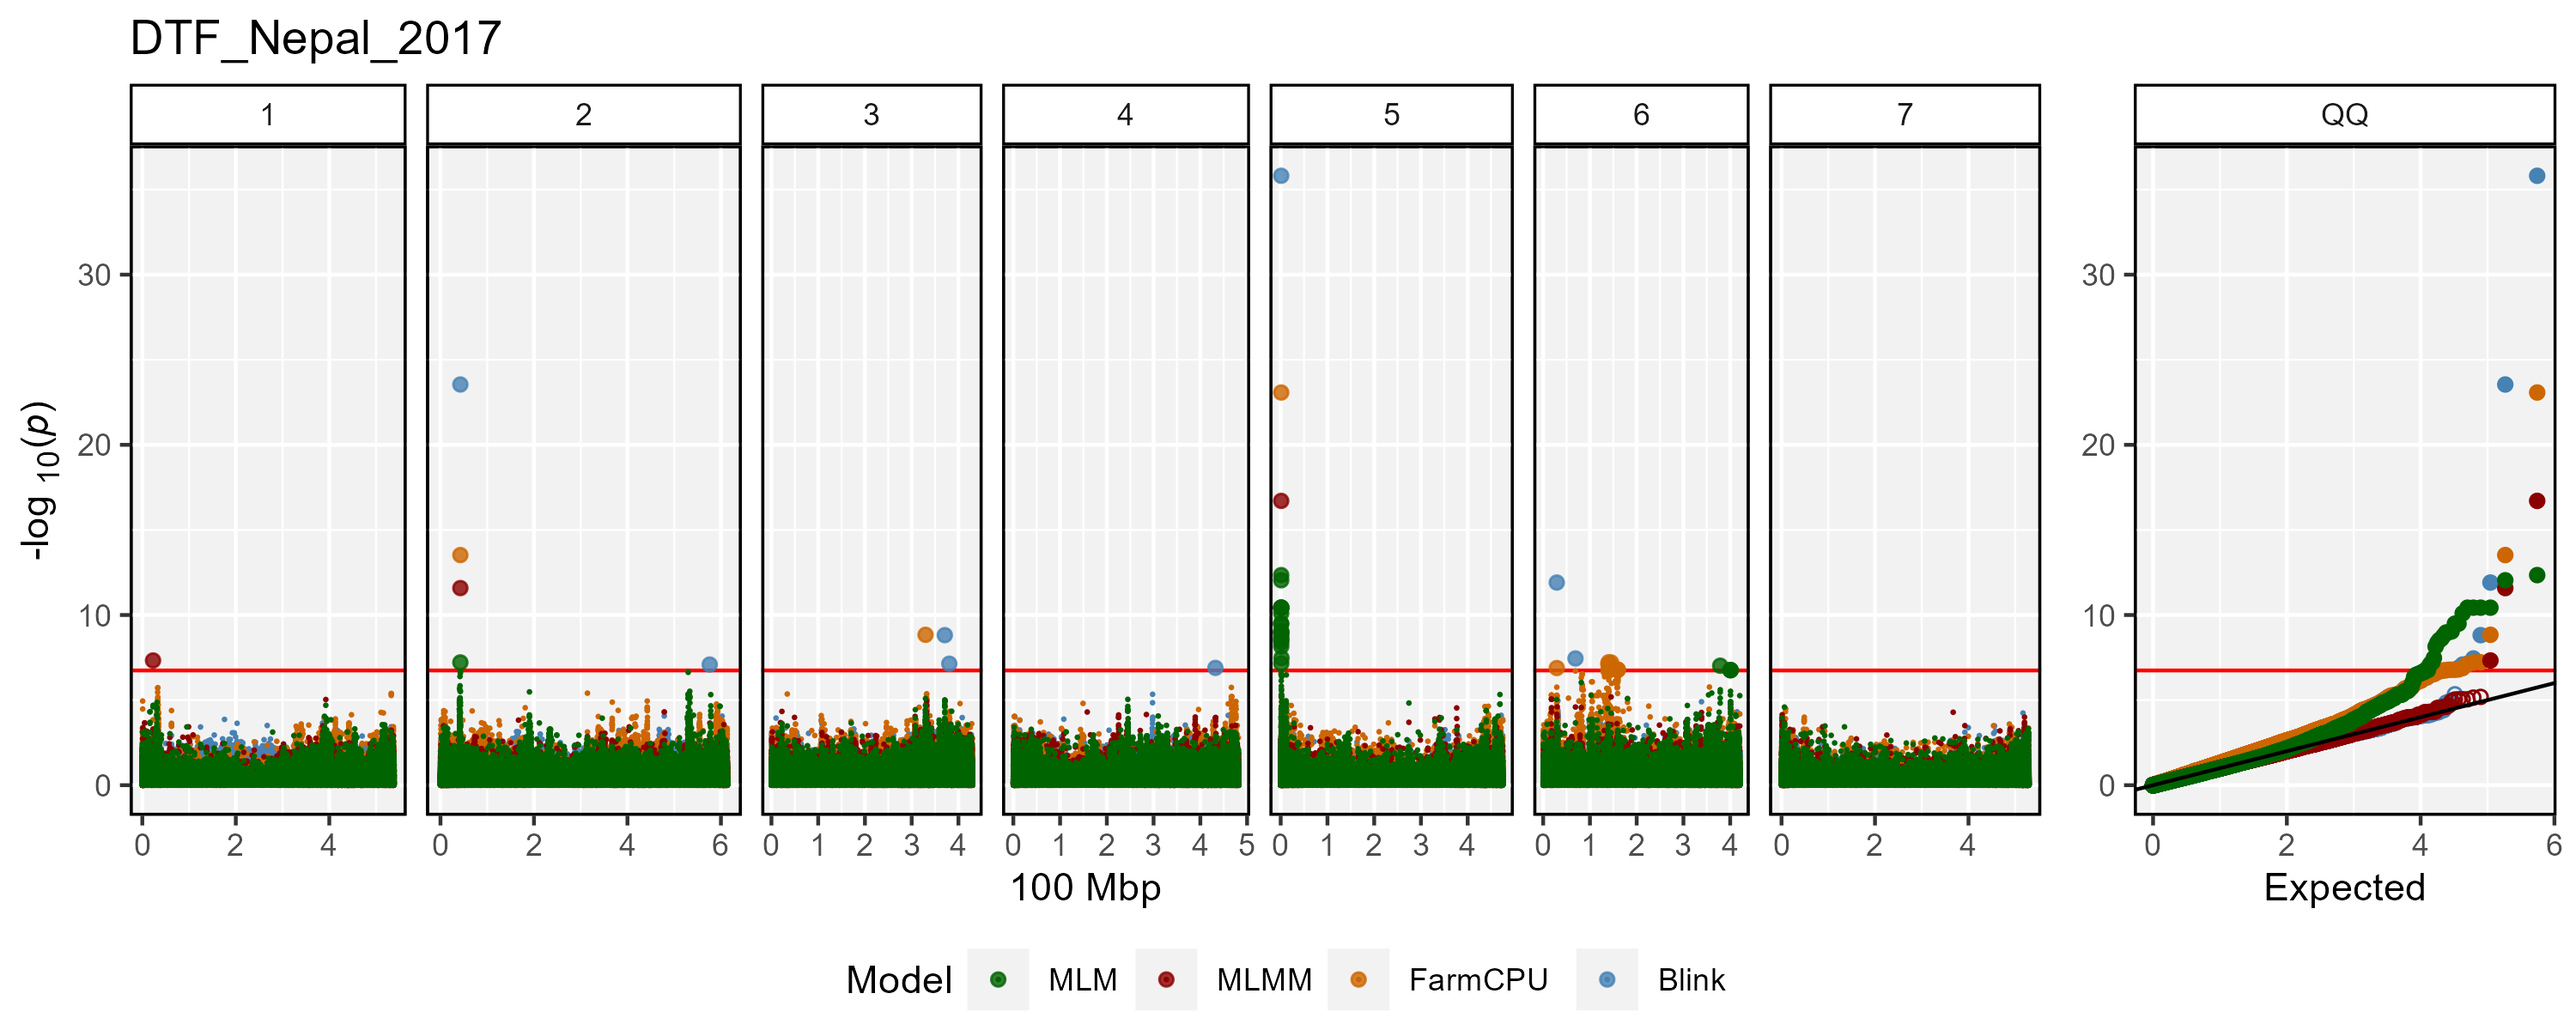
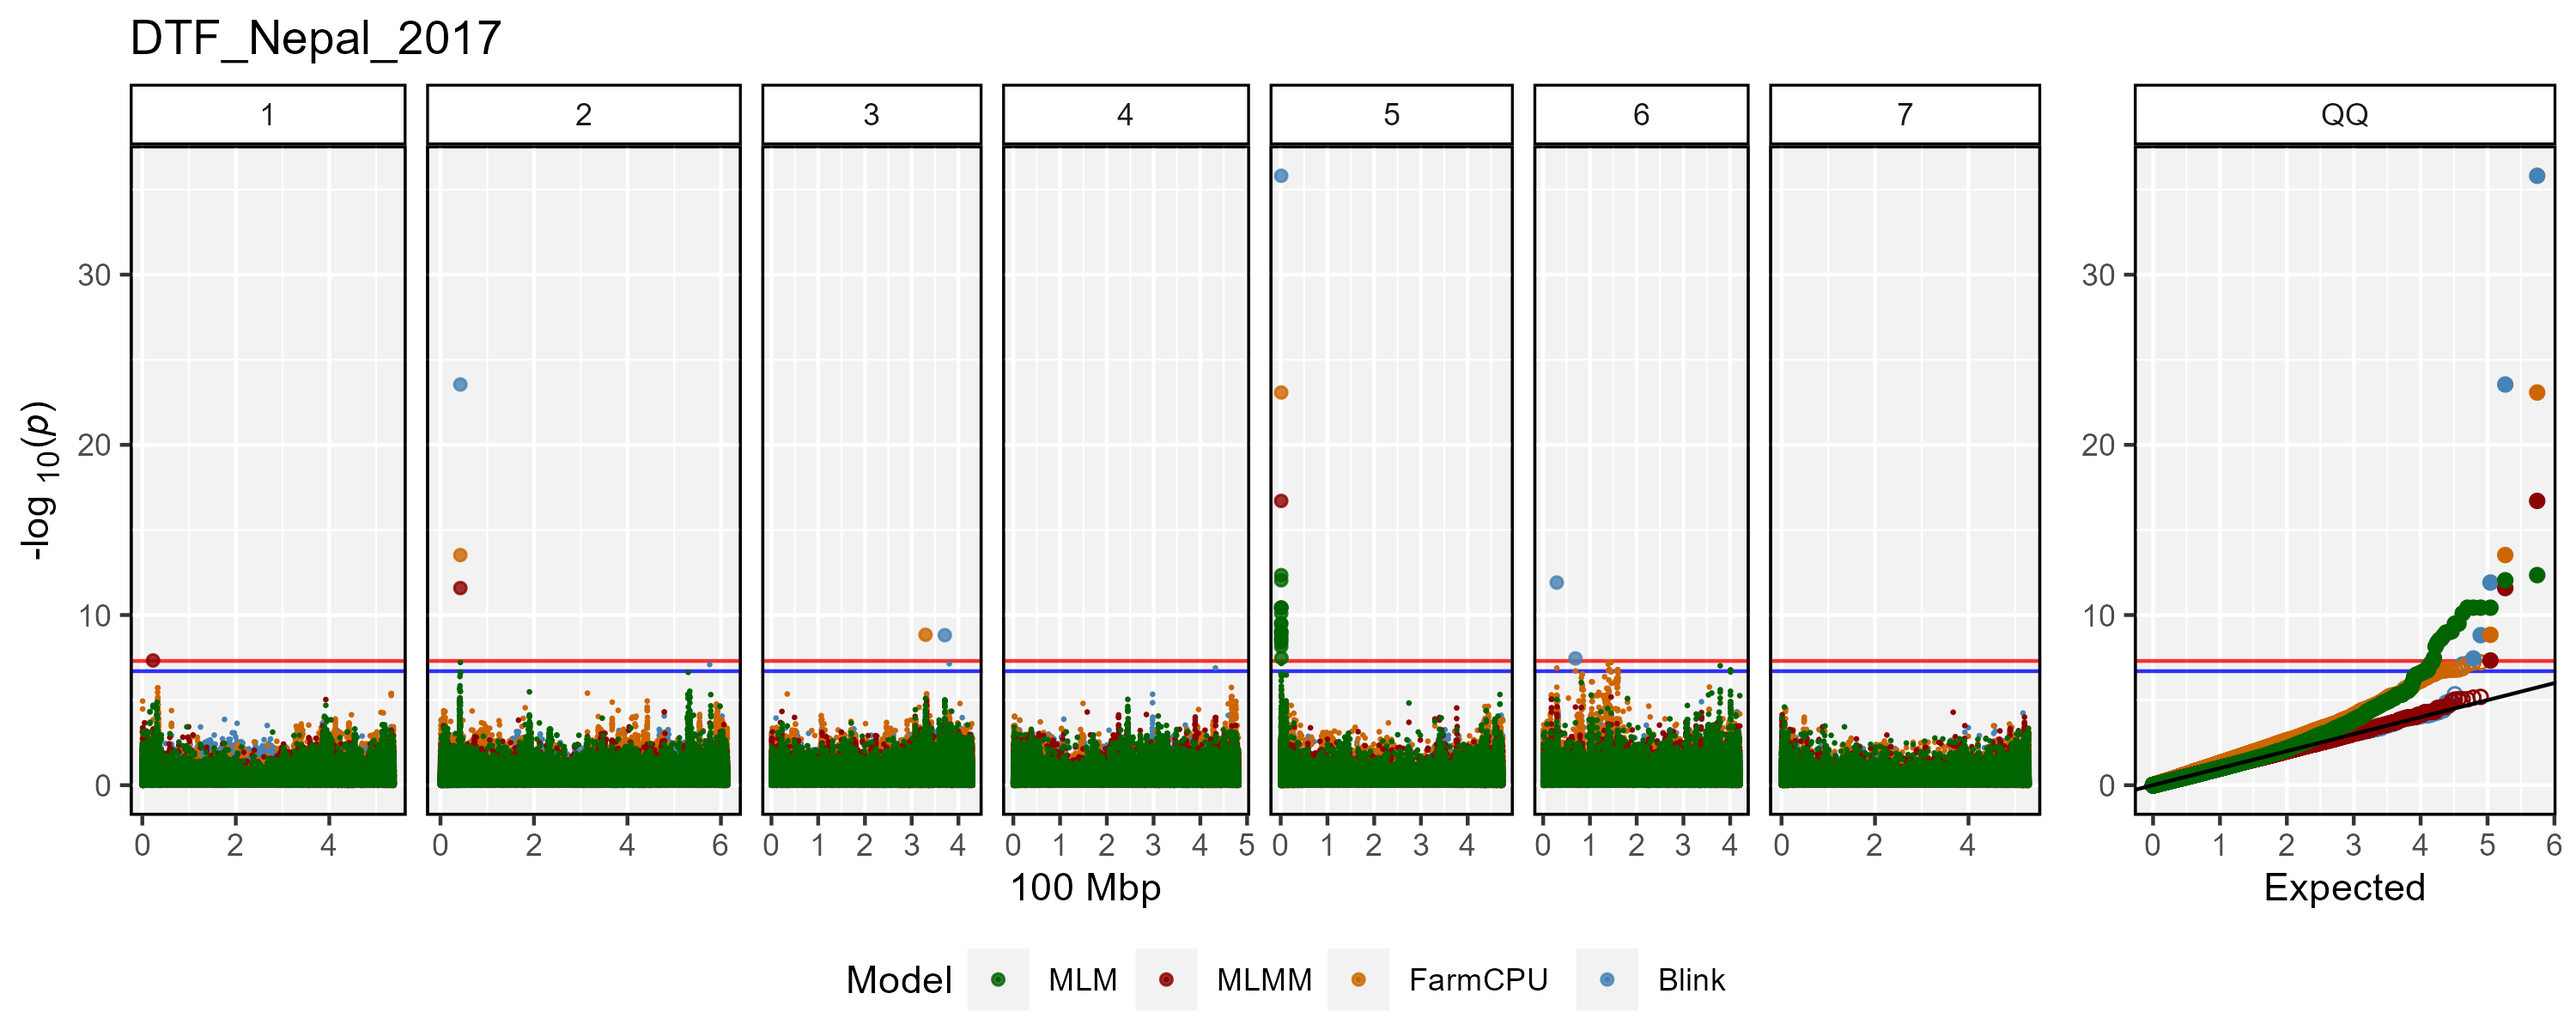
edit

Changed region(s): [[0.062, 0.6167, 0.806, 0.6783], [0.837, 0.6167, 0.992, 0.6783]]

diff --git a/docs/index.html b/docs/index.html
@@ -109,14 +109,16 @@
 </h2>
 <div class="sourceCode" id="cb8"><pre class="downlit sourceCode r">
 <code class="sourceCode R"><span class="kw">for</span><span class="op">(</span><span class="va">i</span> <span class="kw">in</span> <span class="va">myTraits</span><span class="op">)</span> <span class="op">{</span>
-  <span class="va">mp</span> <span class="op">&lt;-</span> <span class="fu"><a href="reference/gg_Manhattan.html">gg_Manhattan</a></span><span class="op">(</span>folder <span class="op">=</span> <span class="st">"GWAS_Results/"</span>, trait <span class="op">=</span> <span class="va">i</span>, facet <span class="op">=</span> <span class="cn">F</span><span class="op">)</span>
+  <span class="va">mp</span> <span class="op">&lt;-</span> <span class="fu"><a href="reference/gg_Manhattan.html">gg_Manhattan</a></span><span class="op">(</span>folder <span class="op">=</span> <span class="st">"GWAS_Results/"</span>, trait <span class="op">=</span> <span class="va">i</span>, facet <span class="op">=</span> <span class="cn">F</span>,
+                     threshold <span class="op">=</span> <span class="fl">7.3</span>, threshold2 <span class="op">=</span> <span class="fl">6.7</span><span class="op">)</span>
   <span class="fu">ggsave</span><span class="op">(</span><span class="fu"><a href="https://rdrr.io/r/base/paste.html" class="external-link">paste0</a></span><span class="op">(</span><span class="st">"man/figures/Multi_"</span>,<span class="va">i</span>,<span class="st">".png"</span><span class="op">)</span>, <span class="va">mp</span>, width <span class="op">=</span> <span class="fl">10</span>, height <span class="op">=</span> <span class="fl">4</span><span class="op">)</span>
 <span class="op">}</span></code></pre></div>
 <p><img src="reference/figures/Multi_DTF_Nepal_2017.png"></p>
 <p><img src="reference/figures/Multi_Testa_Pattern.png"></p>
 <div class="sourceCode" id="cb9"><pre class="downlit sourceCode r">
 <code class="sourceCode R"><span class="kw">for</span><span class="op">(</span><span class="va">i</span> <span class="kw">in</span> <span class="va">myTraits</span><span class="op">)</span> <span class="op">{</span>
-  <span class="va">mp</span> <span class="op">&lt;-</span> <span class="fu"><a href="reference/gg_Manhattan.html">gg_Manhattan</a></span><span class="op">(</span>folder <span class="op">=</span> <span class="st">"GWAS_Results/"</span>, trait <span class="op">=</span> <span class="va">i</span>, facet <span class="op">=</span> <span class="cn">T</span><span class="op">)</span>
+  <span class="va">mp</span> <span class="op">&lt;-</span> <span class="fu"><a href="reference/gg_Manhattan.html">gg_Manhattan</a></span><span class="op">(</span>folder <span class="op">=</span> <span class="st">"GWAS_Results/"</span>, trait <span class="op">=</span> <span class="va">i</span>, facet <span class="op">=</span> <span class="cn">T</span>,
+                     threshold <span class="op">=</span> <span class="fl">7.3</span>, threshold2 <span class="op">=</span> <span class="fl">6.7</span><span class="op">)</span>
   <span class="fu">ggsave</span><span class="op">(</span><span class="fu"><a href="https://rdrr.io/r/base/paste.html" class="external-link">paste0</a></span><span class="op">(</span><span class="st">"man/figures/Facet_"</span>,<span class="va">i</span>,<span class="st">".png"</span><span class="op">)</span>, <span class="va">mp</span>, width <span class="op">=</span> <span class="fl">10</span>, height <span class="op">=</span> <span class="fl">8</span><span class="op">)</span>
 <span class="op">}</span></code></pre></div>
 <p><img src="reference/figures/Facet_DTF_Nepal_2017.png"></p>

diff --git a/docs/reference/gg_GWAS_Summary.html b/docs/reference/gg_GWAS_Summary.html
@@ -47,9 +47,9 @@
   traits <span class="op">=</span> <span class="fu"><a href="list_Traits.html">list_Traits</a></span><span class="op">(</span><span class="op">)</span>,
   threshold <span class="op">=</span> <span class="op">-</span><span class="fu"><a href="https://rdrr.io/r/base/Log.html" class="external-link">log10</a></span><span class="op">(</span><span class="fl">5e-08</span><span class="op">)</span>,
   threshold2 <span class="op">=</span> <span class="op">-</span><span class="fu"><a href="https://rdrr.io/r/base/Log.html" class="external-link">log10</a></span><span class="op">(</span><span class="fl">5e-06</span><span class="op">)</span>,
-  models <span class="op">=</span> <span class="fu"><a href="https://rdrr.io/r/base/c.html" class="external-link">c</a></span><span class="op">(</span><span class="st">"GLM"</span>, <span class="st">"MLM"</span>, <span class="st">"CMLM"</span>, <span class="st">"MLMM"</span>, <span class="st">"SUPER"</span>, <span class="st">"FarmCPU"</span>, <span class="st">"Blink"</span><span class="op">)</span>,
-  colors <span class="op">=</span> <span class="fu"><a href="https://rdrr.io/r/base/c.html" class="external-link">c</a></span><span class="op">(</span><span class="st">"darkgreen"</span>, <span class="st">"darkred"</span>, <span class="st">"darkorange3"</span>, <span class="st">"steelblue"</span>, <span class="st">"darkorchid4"</span>,
-    <span class="st">"darkgoldenrod2"</span><span class="op">)</span>,
+  models <span class="op">=</span> <span class="fu"><a href="https://rdrr.io/r/base/c.html" class="external-link">c</a></span><span class="op">(</span><span class="st">"MLM"</span>, <span class="st">"MLMM"</span>, <span class="st">"FarmCPU"</span>, <span class="st">"Blink"</span>, <span class="st">"GLM"</span><span class="op">)</span>,
+  colors <span class="op">=</span> <span class="fu"><a href="https://rdrr.io/r/base/c.html" class="external-link">c</a></span><span class="op">(</span><span class="st">"darkgreen"</span>, <span class="st">"darkred"</span>, <span class="st">"darkorange3"</span>, <span class="st">"steelblue"</span>, <span class="st">"darkgoldenrod2"</span><span class="op">)</span>,
+  shapes <span class="op">=</span> <span class="fl">21</span><span class="op">:</span><span class="fl">25</span>,
   markers <span class="op">=</span> <span class="cn">NULL</span>,
   hlines <span class="op">=</span> <span class="cn">NULL</span>,
   title <span class="op">=</span> <span class="cn">NULL</span>,

diff --git a/docs/reference/gg_Manhattan.html b/docs/reference/gg_Manhattan.html
@@ -54,7 +54,7 @@
   facet <span class="op">=</span> <span class="cn">T</span>,
   qq <span class="op">=</span> <span class="cn">T</span>,
   pmax <span class="op">=</span> <span class="cn">NULL</span>,
-  models <span class="op">=</span> <span class="fu"><a href="https://rdrr.io/r/base/c.html" class="external-link">c</a></span><span class="op">(</span><span class="st">"GLM"</span>, <span class="st">"MLM"</span>, <span class="st">"CMLM"</span>, <span class="st">"MLMM"</span>, <span class="st">"SUPER"</span>, <span class="st">"FarmCPU"</span>, <span class="st">"Blink"</span><span class="op">)</span>,
+  models <span class="op">=</span> <span class="fu"><a href="https://rdrr.io/r/base/c.html" class="external-link">c</a></span><span class="op">(</span><span class="st">"MLM"</span>, <span class="st">"MLMM"</span>, <span class="st">"FarmCPU"</span>, <span class="st">"Blink"</span>, <span class="st">"GLM"</span><span class="op">)</span>,
   colors1 <span class="op">=</span> <span class="fu"><a href="https://rdrr.io/r/base/c.html" class="external-link">c</a></span><span class="op">(</span><span class="st">"darkgreen"</span>, <span class="st">"darkgoldenrod3"</span>, <span class="st">"darkgreen"</span>, <span class="st">"darkgoldenrod3"</span>,
     <span class="st">"darkgreen"</span>, <span class="st">"darkgoldenrod3"</span>, <span class="st">"darkgreen"</span><span class="op">)</span>,
   colors2 <span class="op">=</span> <span class="fu"><a href="https://rdrr.io/r/base/c.html" class="external-link">c</a></span><span class="op">(</span><span class="st">"darkgreen"</span>, <span class="st">"darkred"</span>, <span class="st">"darkorange3"</span>, <span class="st">"steelblue"</span>, <span class="st">"darkorchid4"</span>,

diff --git a/README.md b/README.md
@@ -72,7 +72,8 @@ ggsave("man/figures/GWAS_Summary.png", mp, width = 10, height = 2)
 
 ``` r
 for(i in myTraits) {
-  mp <- gg_Manhattan(folder = "GWAS_Results/", trait = i, facet = F)
+  mp <- gg_Manhattan(folder = "GWAS_Results/", trait = i, facet = F,
+                     threshold = 7.3, threshold2 = 6.7)
   ggsave(paste0("man/figures/Multi_",i,".png"), mp, width = 10, height = 4)
 }
 ```
@@ -83,7 +84,8 @@ for(i in myTraits) {
 
 ``` r
 for(i in myTraits) {
-  mp <- gg_Manhattan(folder = "GWAS_Results/", trait = i, facet = T)
+  mp <- gg_Manhattan(folder = "GWAS_Results/", trait = i, facet = T,
+                     threshold = 7.3, threshold2 = 6.7)
   ggsave(paste0("man/figures/Facet_",i,".png"), mp, width = 10, height = 8)
 }
 ```
